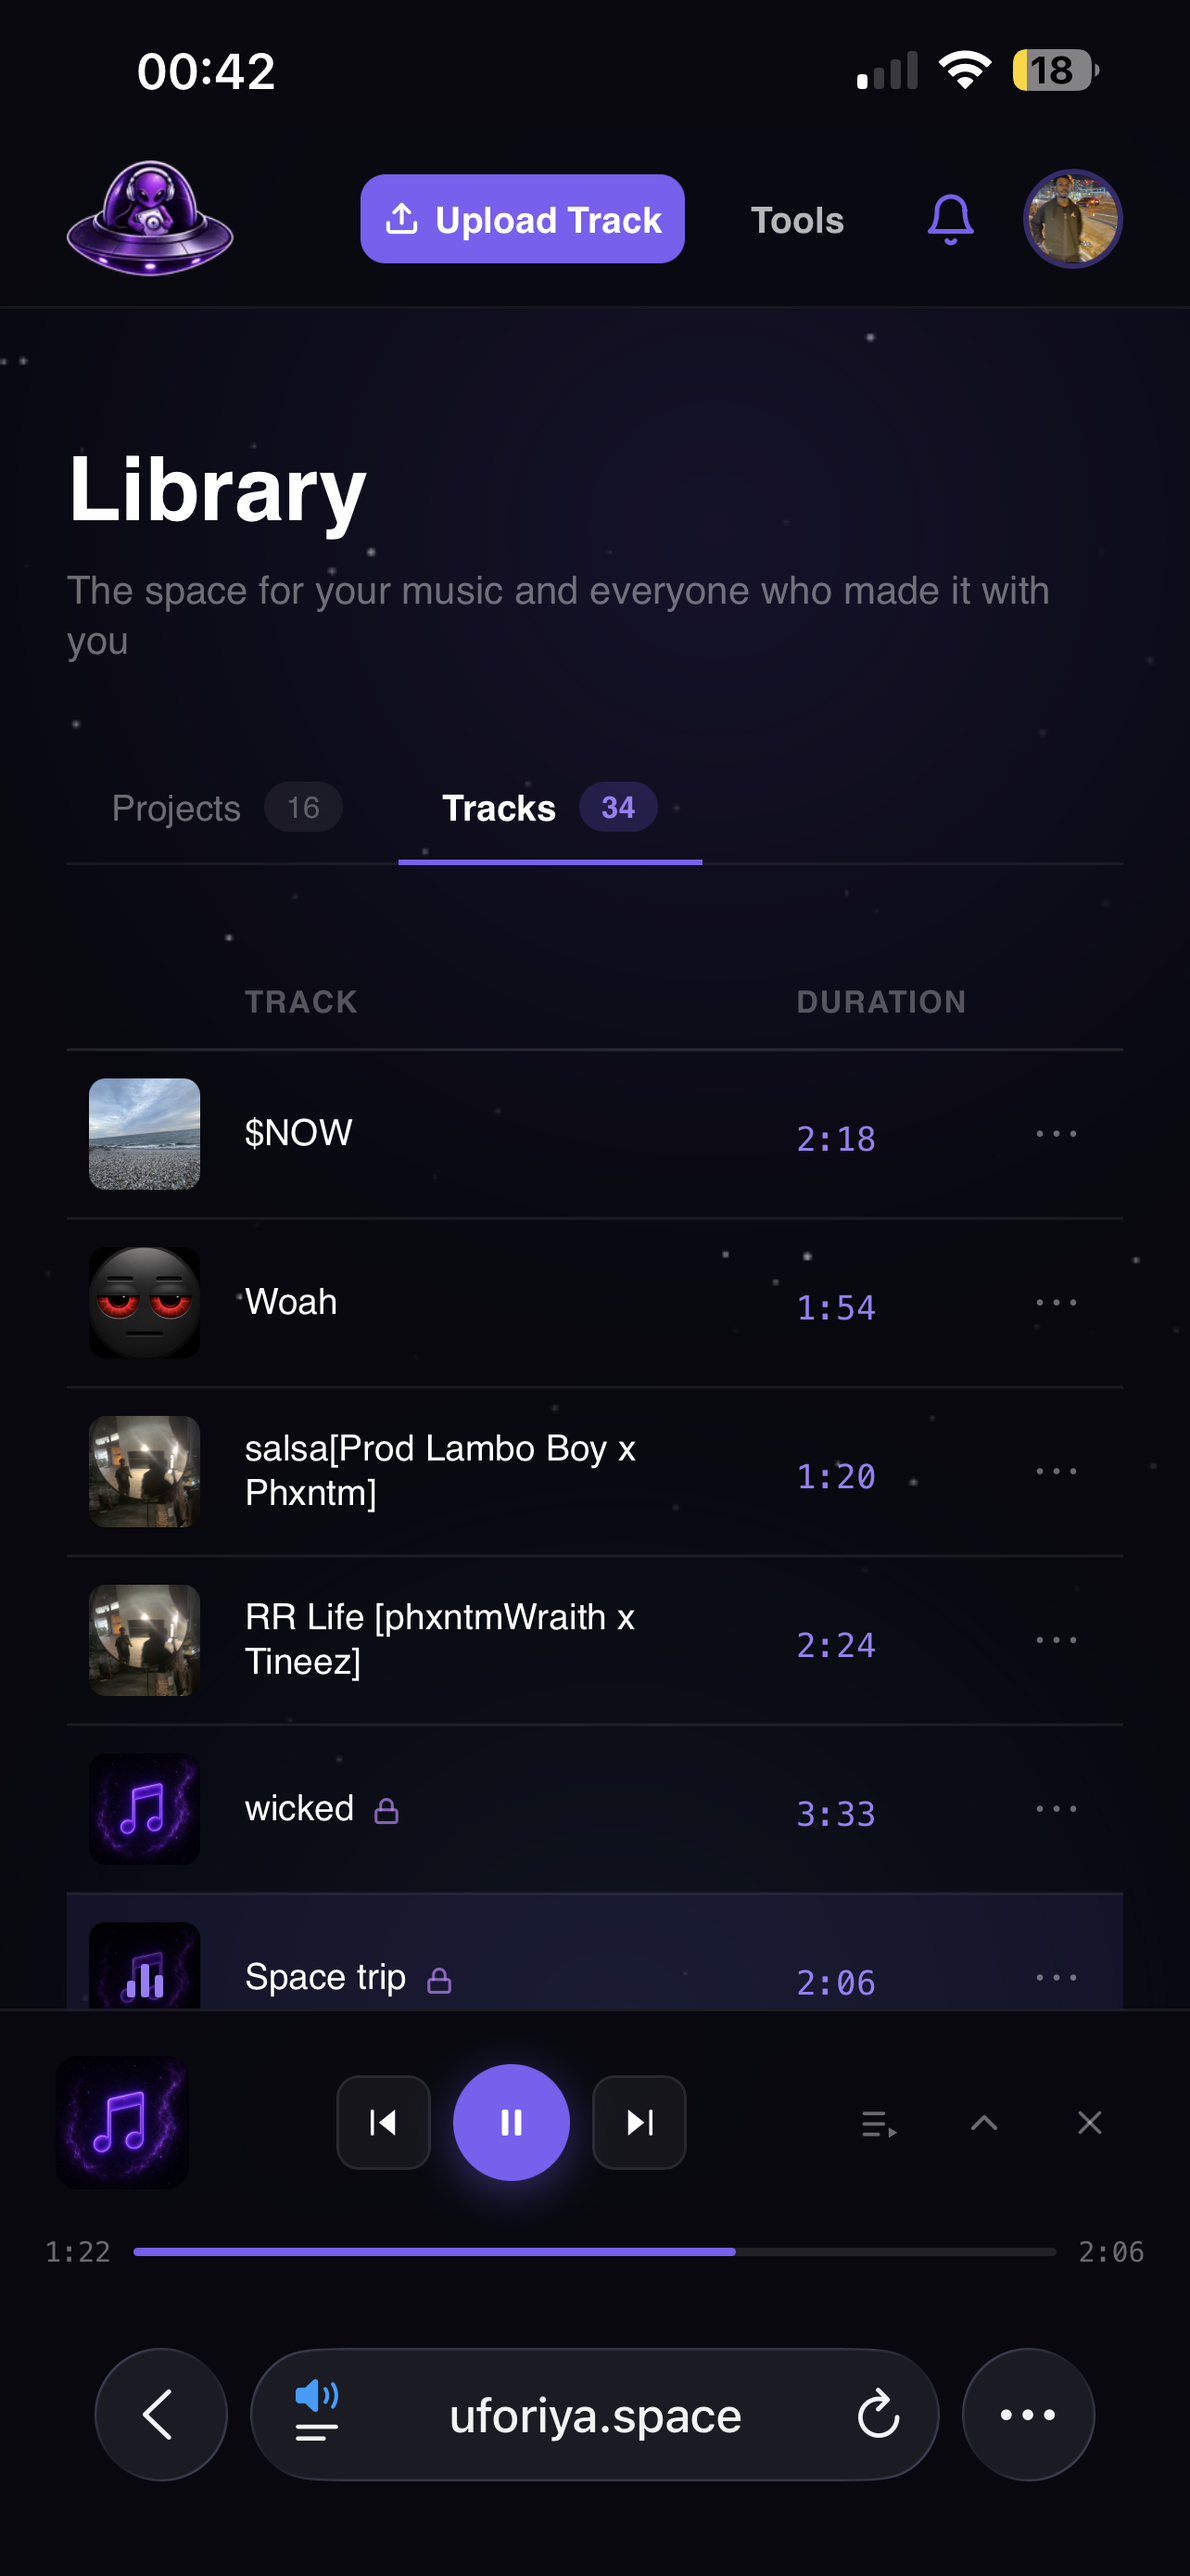
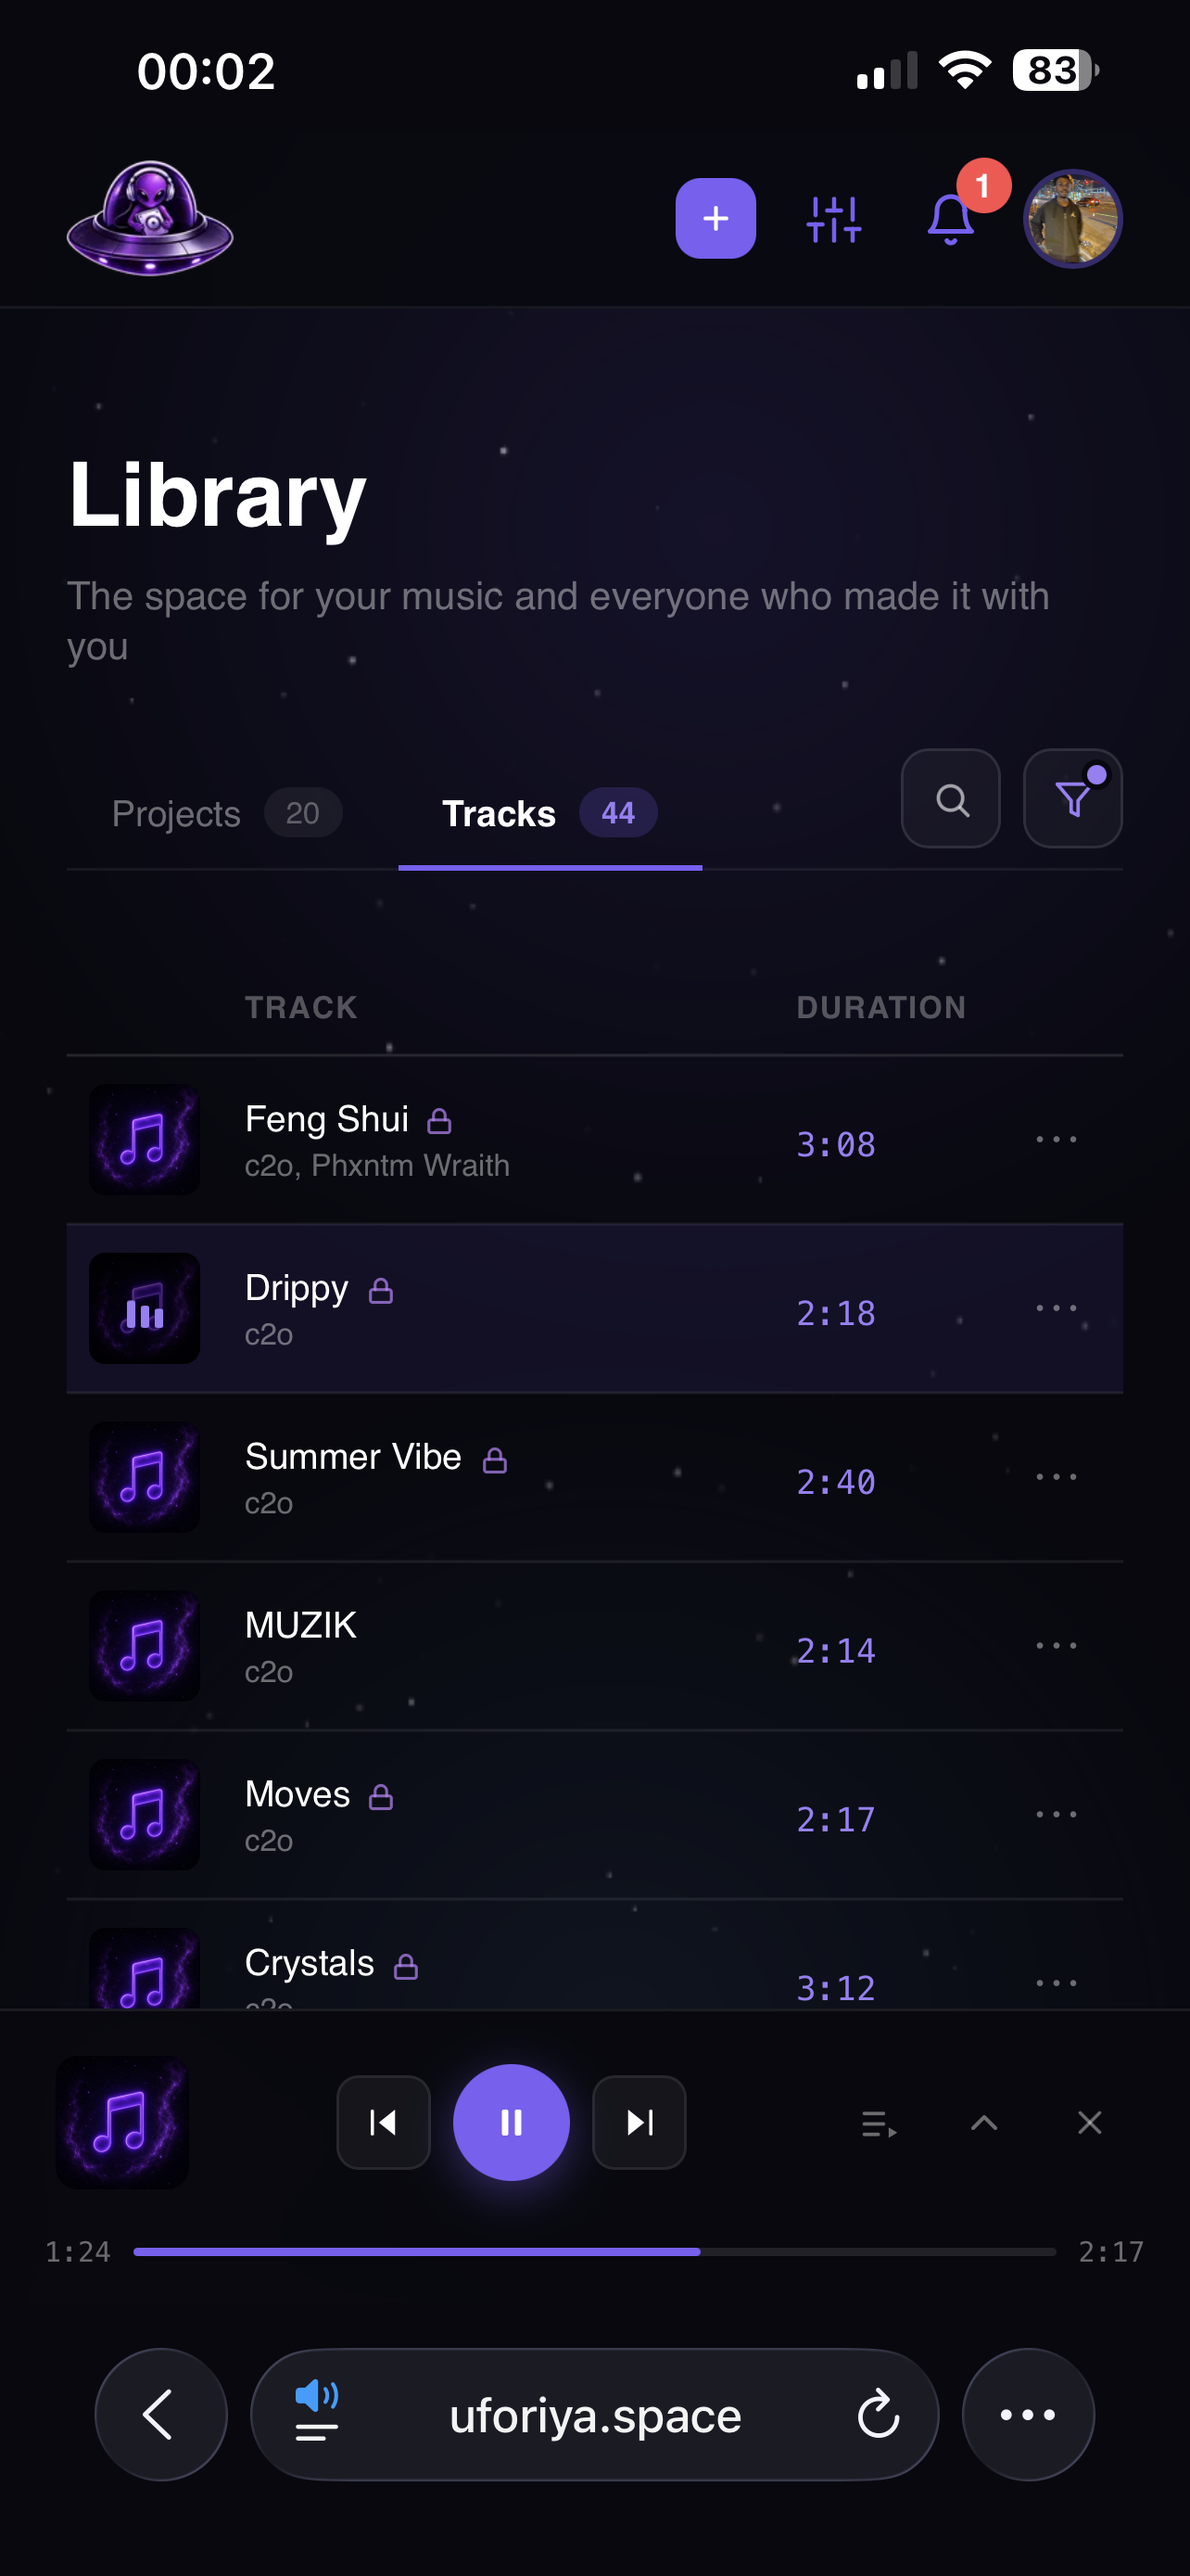
update mobile images

diff --git a/index.html b/index.html
@@ -351,7 +351,7 @@
         </button>
         <button class="lib-tab" role="tab" id="lib-tab-tracks"
                 aria-controls="lib-panel-tracks" aria-selected="false" tabindex="-1">
-          Tracks <span class="lib-count">41</span>
+          Tracks <span class="lib-count">44</span>
         </button>
       </div>
 
